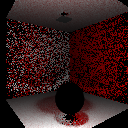
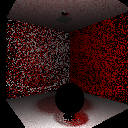
BD scenes for presentation

diff --git a/rt/src/rt/testscenes/PathtracingBoxSphere.java b/rt/src/rt/testscenes/PathtracingBoxSphere.java
@@ -15,13 +15,13 @@ public class PathtracingBoxSphere extends Scene {
 	
 	public PathtracingBoxSphere()
 	{
-		outputFilename = new String("output/testscenes/assignment5/PathTracing/PathtracingBoxSphere");
[1 lines of base64/hex data omitted]
 				
 		// Specify pixel sampler to be used
 		samplerFactory = new RandomSamplerFactory();
 		
 		// Samples per pixel
-		SPP = 1024;
+		SPP = 512;
 		outputFilename = outputFilename + " " + String.format("%d", SPP) + "SPP";
 		
 		// Make camera and film
@@ -37,16 +37,18 @@ public class PathtracingBoxSphere extends Scene {
 		tonemapper = new ClampTonemapper();
 
 		int minDepth = 2;
-		int maxDepth = 10;
+		int maxDepth = 50;
 		float rrProbability = 0.5f;
+		float shThresh = 9;
 
-		outputFilename += String.format(" minDepth=%d maxDepth=%d rr=%.2f", minDepth, maxDepth, rrProbability);
+		outputFilename += String.format(" minDepth=%d maxDepth=%d rr=%.2f thresh=%.2f", minDepth, maxDepth, rrProbability, shThresh);
 		
 		// Specify integrator to be used
         PathTracingIntegratorFactory factory = new PathTracingIntegratorFactory();
 		factory.setMaxDepth(maxDepth);
 		factory.setMinDepth(minDepth);
 		factory.setTerminationProbability(rrProbability);
+		factory.setShadowRayContributionThreshold(shThresh);
         integratorFactory = factory;
 		
 		// List of objects

diff --git a/rt/src/rt/testscenes/BDPathtracingBoxSphereGlass.java b/rt/src/rt/testscenes/BDPathtracingBoxSphereGlass.java
@@ -36,8 +36,8 @@ public class BDPathtracingBoxSphereGlass extends Scene {
 		film = new BoxFilterFilm(width, height);						
 		tonemapper = new ClampTonemapper();
 
-		int s = 5;
-		int t = 1;
+		int s = 10;
+		int t = 10;
 
         int minEyeDepth = t;
         int maxEyeDepth = t;
@@ -104,7 +104,7 @@ public class BDPathtracingBoxSphereGlass extends Scene {
 	{
 		if(integratorFactory instanceof BDPathTracingIntegratorFactory)
 		{
-			((BDPathTracingIntegratorFactory) integratorFactory).writeLightImage("output/testscenes/assignment5/lightimageBoxSphereGlass");
[1 lines of base64/hex data omitted]
 			((BDPathTracingIntegratorFactory) integratorFactory).addLightImage(film);
 		}
 	}

diff --git a/rt/src/rt/Main.java b/rt/src/rt/Main.java
@@ -30,7 +30,7 @@ public class Main {
 	/** 
 	 * The scene to be rendered.
 	 */
-	public static Scene scene = new CornellBoxAndSpheres();
+	public static Scene scene = new BDPathtracingBoxSphereGlass();
 	/**
 	 * A render task represents a rectangular image region that is rendered
 	 * by a thread in one chunk.

diff --git a/rt/src/rt/testscenes/BDPathtracingBoxSphere.java b/rt/src/rt/testscenes/BDPathtracingBoxSphere.java
@@ -43,7 +43,7 @@ public class BDPathtracingBoxSphere extends Scene {
 		tonemapper = new ClampTonemapper();
 
 		int s = 5;
-		int t = 1;
+		int t = 5;
 
 		int minEyeDepth = t;
 		int maxEyeDepth = t;
